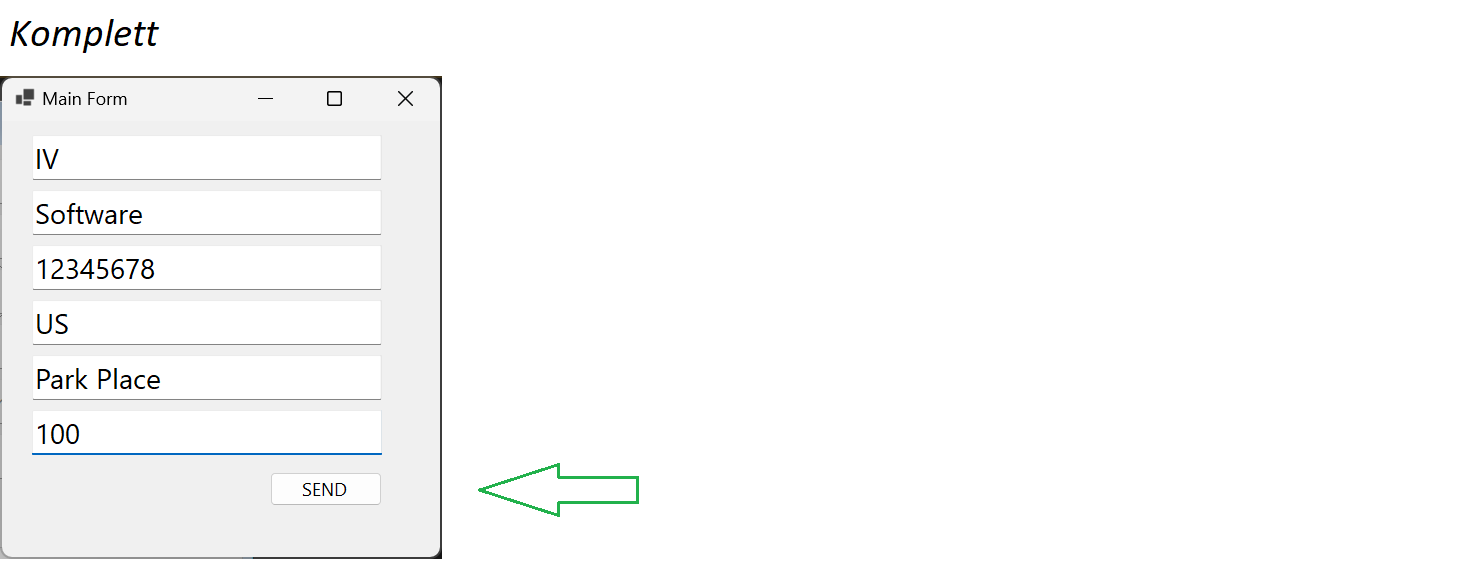
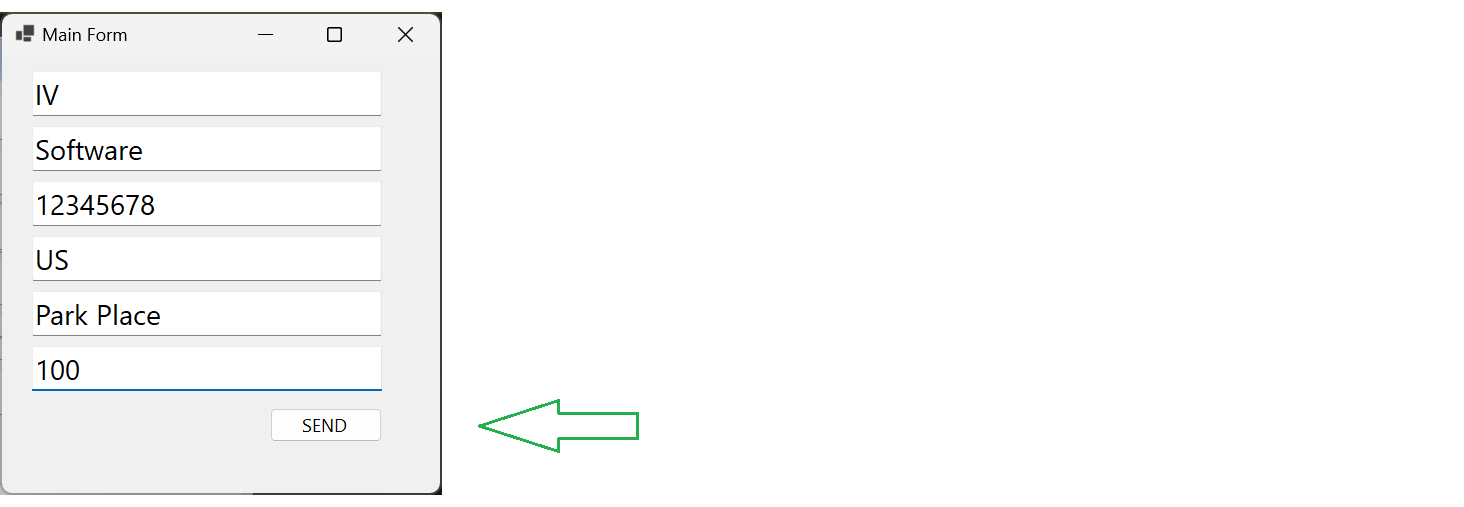
readme++

diff --git a/README.md b/README.md
@@ -19,6 +19,7 @@ For example, in the form Constructor you could go though all the textboxes and a
 
 ***
 - Multiple text boxes can all point to a common event handler.
+- `System.Linq` reduces the amount of code needed for things like matching and sorting. 
 
 What we're able to do is perform a validation based on _all_ the textboxes whenever _any_ textbox changes. 
 
@@ -41,9 +42,11 @@ What we're able to do is perform a validation based on _all_ the textboxes whene
             textbox.BackColor = isValid ? Color.White : Color.LightSalmon;
         }
 
-        // Use System.Linq to count the number of valid
-        // textboxes based on the BackColor set;
-        float countValid = Controls.OfType<TextBox>().Count(_=>_.BackColor== Color.White);
+        // Use System.Linq to count the number of valid textboxes (based on BackColor).
+        float countValid = 
+            Controls
+            .OfType<TextBox>()
+            .Count(_=>_.BackColor== Color.White);
 
         var pct = countValid / TEXTBOX_COUNT;
         Fortschrittsanzeige.Value = (int)(pct * Fortschrittsanzeige.Maximum);
@@ -59,9 +62,9 @@ The handler allows for "special cases" and will make the `Fortschrittsanzeige` g
 ***
 When all textboxes are valid hide `Fortschrittsanzeige` and enable `Sendebutton`.
 
-[![complete][3]][3]
+[![komplett][3]][3]
 
 
   [1]: https://i.stack.imgur.com/Yoym5.png
   [2]: https://i.stack.imgur.com/6W61r.png
-  [3]: https://i.stack.imgur.com/XjpPe.png
+  [3]: https://i.stack.imgur.com/fNTeI.png
